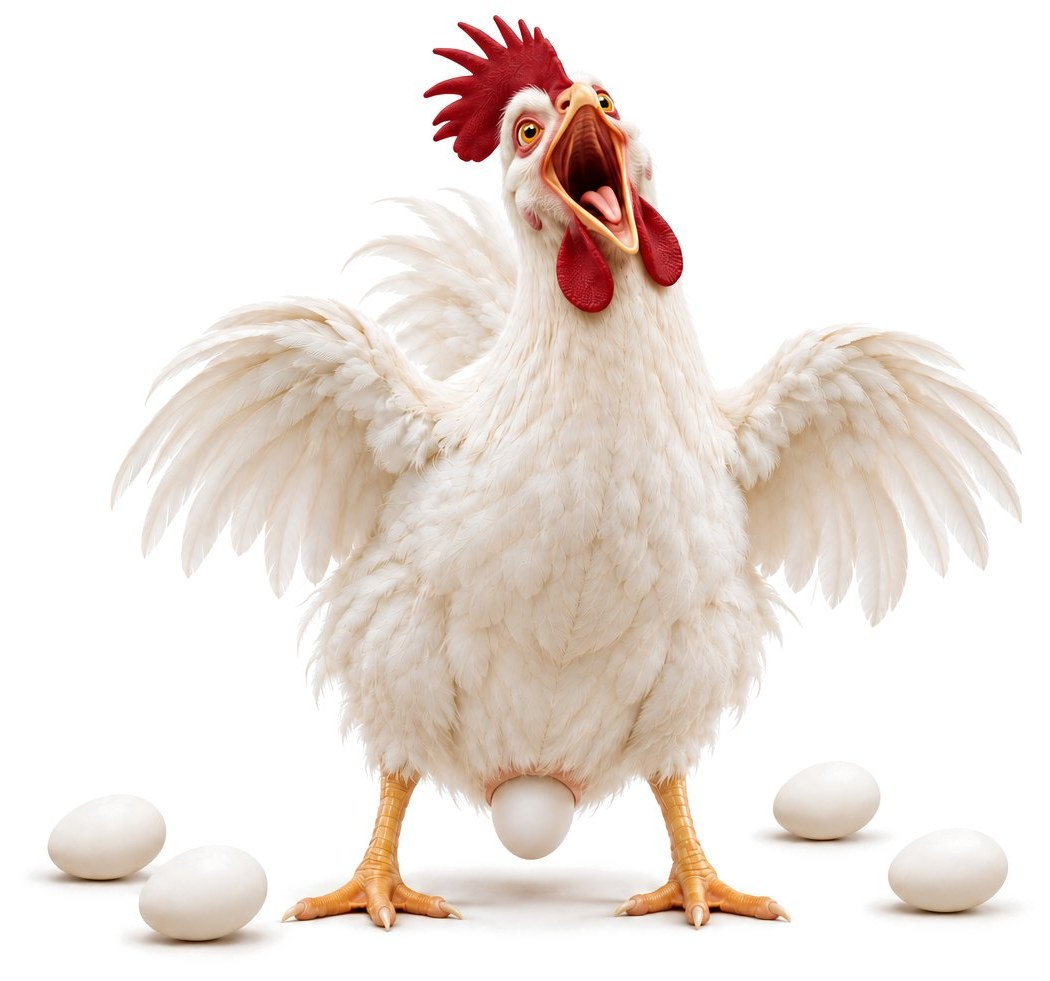
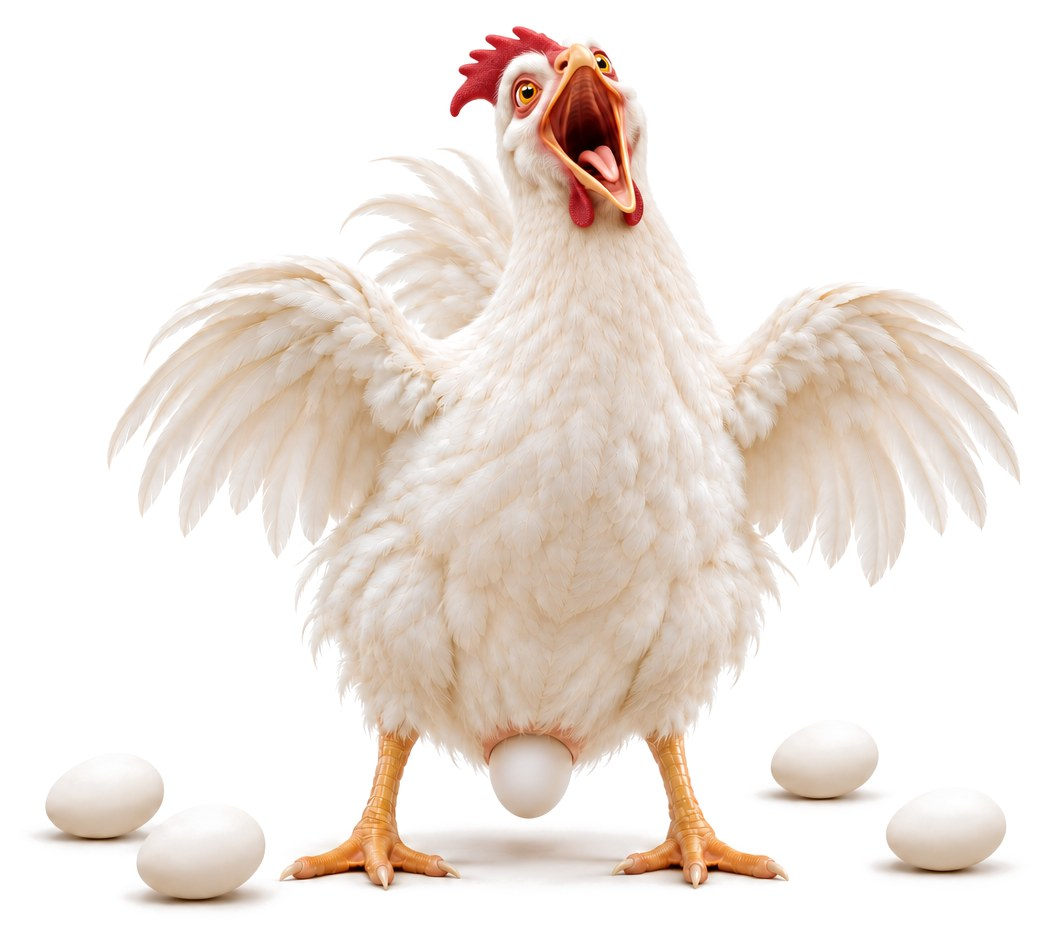
Neue Motive für Folie 2, 3, 5 und den Check-Abschnitt (weiß freigestellt), Handy-Motive passen in die Breite
Claude-Session: https://claude.ai/code/session_01BjkEN2Gdq6Ygi9Db6ym7yL

diff --git a/site/index.html b/site/index.html
@@ -408,7 +408,7 @@ input,textarea{border:0}
  .slide{grid-template-columns:1fr;grid-template-rows:46svh auto;align-content:start;gap:clamp(18px,3.5svh,36px);padding-block:9svh 12px}
  .slide .big,.slide .pic{font-size:clamp(30px,10vw,52px)}
  .slide .pic{order:-1;justify-content:center;align-items:flex-end;height:46svh}
- .slide .pic img{height:min(calc(var(--h) * 1.15), 46svh)}
+ .slide .pic img{height:min(calc(var(--h) * 1.15), 46svh);max-width:100%;object-fit:contain;object-position:50% 100%}
  .slide .sub{font-size:11px;margin-top:12px}
  .slide:nth-child(5) .pic img,.slide.clone-last .pic img{height:min(calc(var(--h) * 1.15), 53svh)}
  .slide:nth-child(3) .pic{justify-content:center}
@@ -482,11 +482,11 @@ input,textarea{border:0}
           </div>
           <div class="slide" aria-roledescription="Folie" aria-label="2 von 5">
             <div class="txt"><p class="big">Hühner <span class="red">gackern</span> dabei wie blöde.</p></div>
-            <div class="pic"><img src="img/slide-2-huhn.jpg" alt="Weißes Huhn legt frontal ein Ei, schreit lauthals mit weit aufgerissenem Schnabel und ausgebreiteten Flügeln, umgeben von Eiern" width="1050" height="981" loading="lazy"></div>
+            <div class="pic"><img src="img/slide-2-huhn.jpg" alt="Weißes Huhn legt frontal ein Ei, schreit lauthals mit weit aufgerissenem Schnabel und ausgebreiteten Flügeln, umgeben von Eiern" width="1049" height="937" loading="lazy"></div>
           </div>
           <div class="slide" aria-roledescription="Folie" aria-label="3 von 5">
             <div class="txt"><p class="big">Was ist die <span class="red">Folge?</span></p></div>
-            <div class="pic"><img src="img/slide-3-huhn-ente.jpg" alt="Gackerndes Huhn mit Ei im Vordergrund, klein im Hintergrund eine stille Ente mit ihrem Ei" width="1334" height="925" loading="lazy"></div>
+            <div class="pic"><img src="img/slide-3-huhn-ente.jpg" alt="Gackerndes Huhn mit Ei im Vordergrund, klein im Hintergrund eine stille Ente mit ihrem Ei" width="1329" height="881" loading="lazy"></div>
           </div>
           <div class="slide" aria-roledescription="Folie" aria-label="4 von 5">
             <div class="txt"><p class="big">Alle Welt <span class="red">kauft</span> Hühnereier!</p></div>
@@ -494,7 +494,7 @@ input,textarea{border:0}
           </div>
           <div class="slide" aria-roledescription="Folie" aria-label="5 von 5">
             <div class="txt"><p class="big">Zeit, <span class="red">laut zu gackern.</span></p><p class="sub">Für Produkte &amp; Leistungen, die Ihre Kunden hören, sehen und kaufen.</p></div>
-            <div class="pic"><img src="img/slide-5-cackle.jpg" alt="Huhn steht auf gestapelten Eierkartons und gackert laut" width="956" height="1012" loading="lazy"></div>
+            <div class="pic"><img src="img/slide-5-cackle.jpg" alt="Huhn steht auf gestapelten Eierkartons und gackert laut" width="703" height="981" loading="lazy"></div>
           </div>
         </div>
         <div class="dots" id="dots" role="group" aria-label="Folie wählen"></div>
@@ -686,7 +686,7 @@ input,textarea{border:0}
         <p class="lead">Zehn kurze Fragen zu Marke, Website, Print und Social Media – und Sie erhalten sofort eine Auswertung mit Ihren wichtigsten Hebeln.</p>
         <ul><li>Dauer: etwa zwei Minuten</li><li>Ergebnis sofort, als Seite und PDF</li><li>Digital und Print im Blick</li></ul>
       </div>
-      <figure class="ai-fig"><img src="img/huhn-sprung.jpg" alt="Weißes Huhn springt mit ausgebreiteten Flügeln hoch und gackert laut, einzelne Federn fliegen" width="996" height="1024" loading="lazy"><span class="ai-cap"><b>KI</b>KI-generiert von Capeeshee</span></figure>
+      <figure class="ai-fig"><img src="img/huhn-sprung.jpg" alt="Weißes Huhn springt mit ausgebreiteten Flügeln hoch und gackert laut, einzelne Federn fliegen" width="982" height="952" loading="lazy"><span class="ai-cap"><b>KI</b>KI-generiert von Capeeshee</span></figure>
     </div>
   </section>
 
